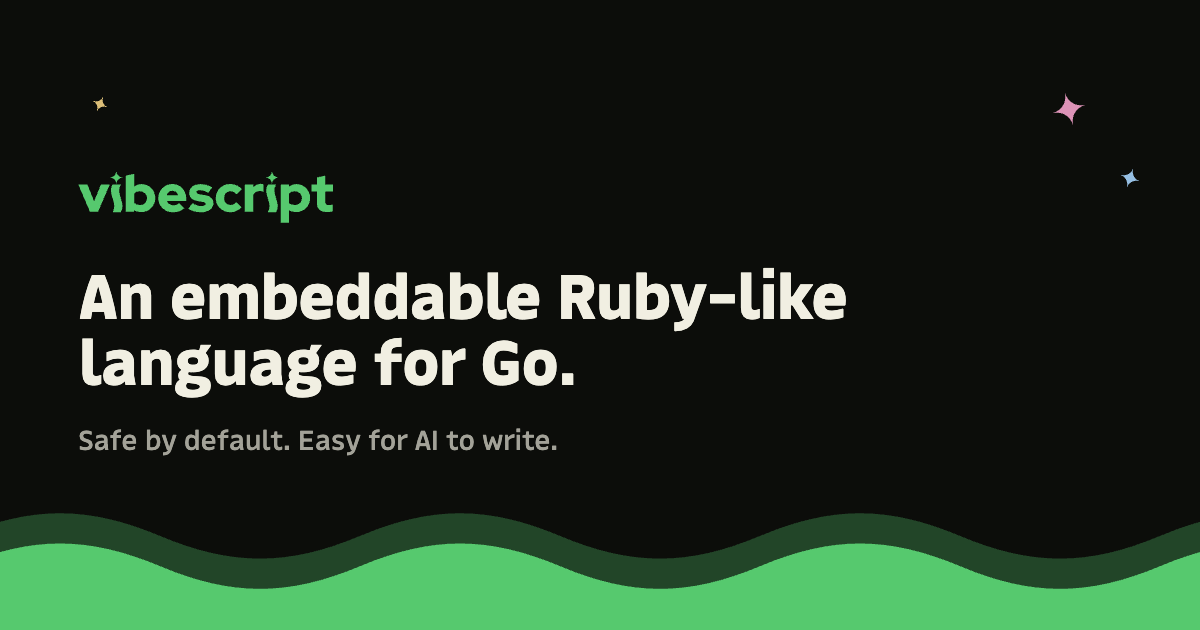
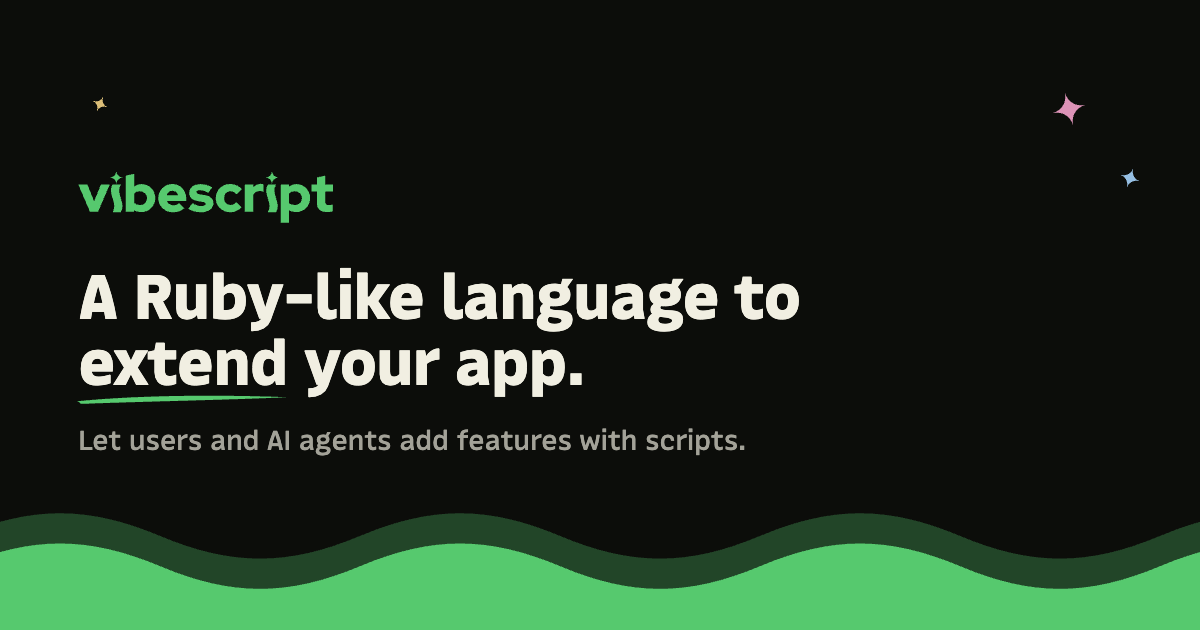
Show the current hero headline on the social card

Changed region(s): [[0.0617, 0.4222, 0.7092, 0.7238]]

diff --git a/scripts/build_og_card.py b/scripts/build_og_card.py
@@ -95,13 +95,18 @@ TOK_KEYWORD = "#dd93b7"
 TOK_CONSTANT = "#96bfe3"
 TOK_STRING = "#dcbe78"
 
-HEADLINE = "An embeddable Ruby-like language for Go."
-SUBLINE = "Safe by default. Easy for AI to write."
+# Mirrors the homepage hero, including the swash under one word.
+HEADLINE = "A Ruby-like language to extend your app."
+UNDERLINED = "extend"
+SUBLINE = "Let users and AI agents add features with scripts."
 
 SPARKLE = (
     "M17.5 0C17.5 9.665 25.335 17.5 35 17.5C25.335 17.5 17.5 25.335 17.5 35"
     "C17.5 25.335 9.665 17.5 0 17.5C9.665 17.5 17.5 9.665 17.5 0Z"
 )
+
+# The hero's underline stroke, from layouts/home.html.
+SWASH = "M2 9C48 4 118 2 197 5C150 7.5 70 9 6 11.5Z"
 
 # Same sine as the homepage wave, but filled to the bottom edge rather than
 # drawn as a ribbon: a wavy lower edge would let the background show through at
@@ -135,6 +140,13 @@ def build_html() -> str:
     non_ascii = [c for c in HEADLINE + SUBLINE if ord(c) > 0x7E]
     if non_ascii:
         sys.exit(f"card text must stay ASCII, found: {non_ascii!r}")
+    if HEADLINE.count(UNDERLINED) != 1:
+        sys.exit(f"underlined word must appear once in the headline: {UNDERLINED!r}")
+    headline = HEADLINE.replace(
+        UNDERLINED,
+        f'<span class="underlined">{UNDERLINED}<svg class="swash" viewBox="0 0 200 12" '
+        f'preserveAspectRatio="none"><path d="{SWASH}"/></svg></span>',
+    )
 
     return f"""<!doctype html>
 <html><head><meta charset="utf-8">
@@ -173,6 +185,17 @@ def build_html() -> str:
     color: {MUTED};
     letter-spacing: -0.01em;
   }}
+  .underlined {{ position: relative; white-space: nowrap; isolation: isolate; }}
+  .swash {{
+    position: absolute;
+    left: -1.5%;
+    bottom: 0.02em;
+    width: 103%;
+    height: 0.2em;
+    overflow: visible;
+    z-index: -1;
+    fill: {ACCENT};
+  }}
   .wave {{ position: absolute; left: 0; right: 0; bottom: 0; line-height: 0; }}
   .wave svg {{ width: 100%; height: 126px; display: block; }}
   .sp {{ position: absolute; }}
@@ -182,7 +205,7 @@ def build_html() -> str:
   {sparkle(1120, 168, 20, TOK_CONSTANT, 18)}
   {sparkle(92, 96, 16, TOK_STRING, 24)}
   {logo}
-  <h1>{HEADLINE}</h1>
+  <h1>{headline}</h1>
   <p>{SUBLINE}</p>
   <div class="wave">
     <svg viewBox="0 0 1200 150" preserveAspectRatio="none">
